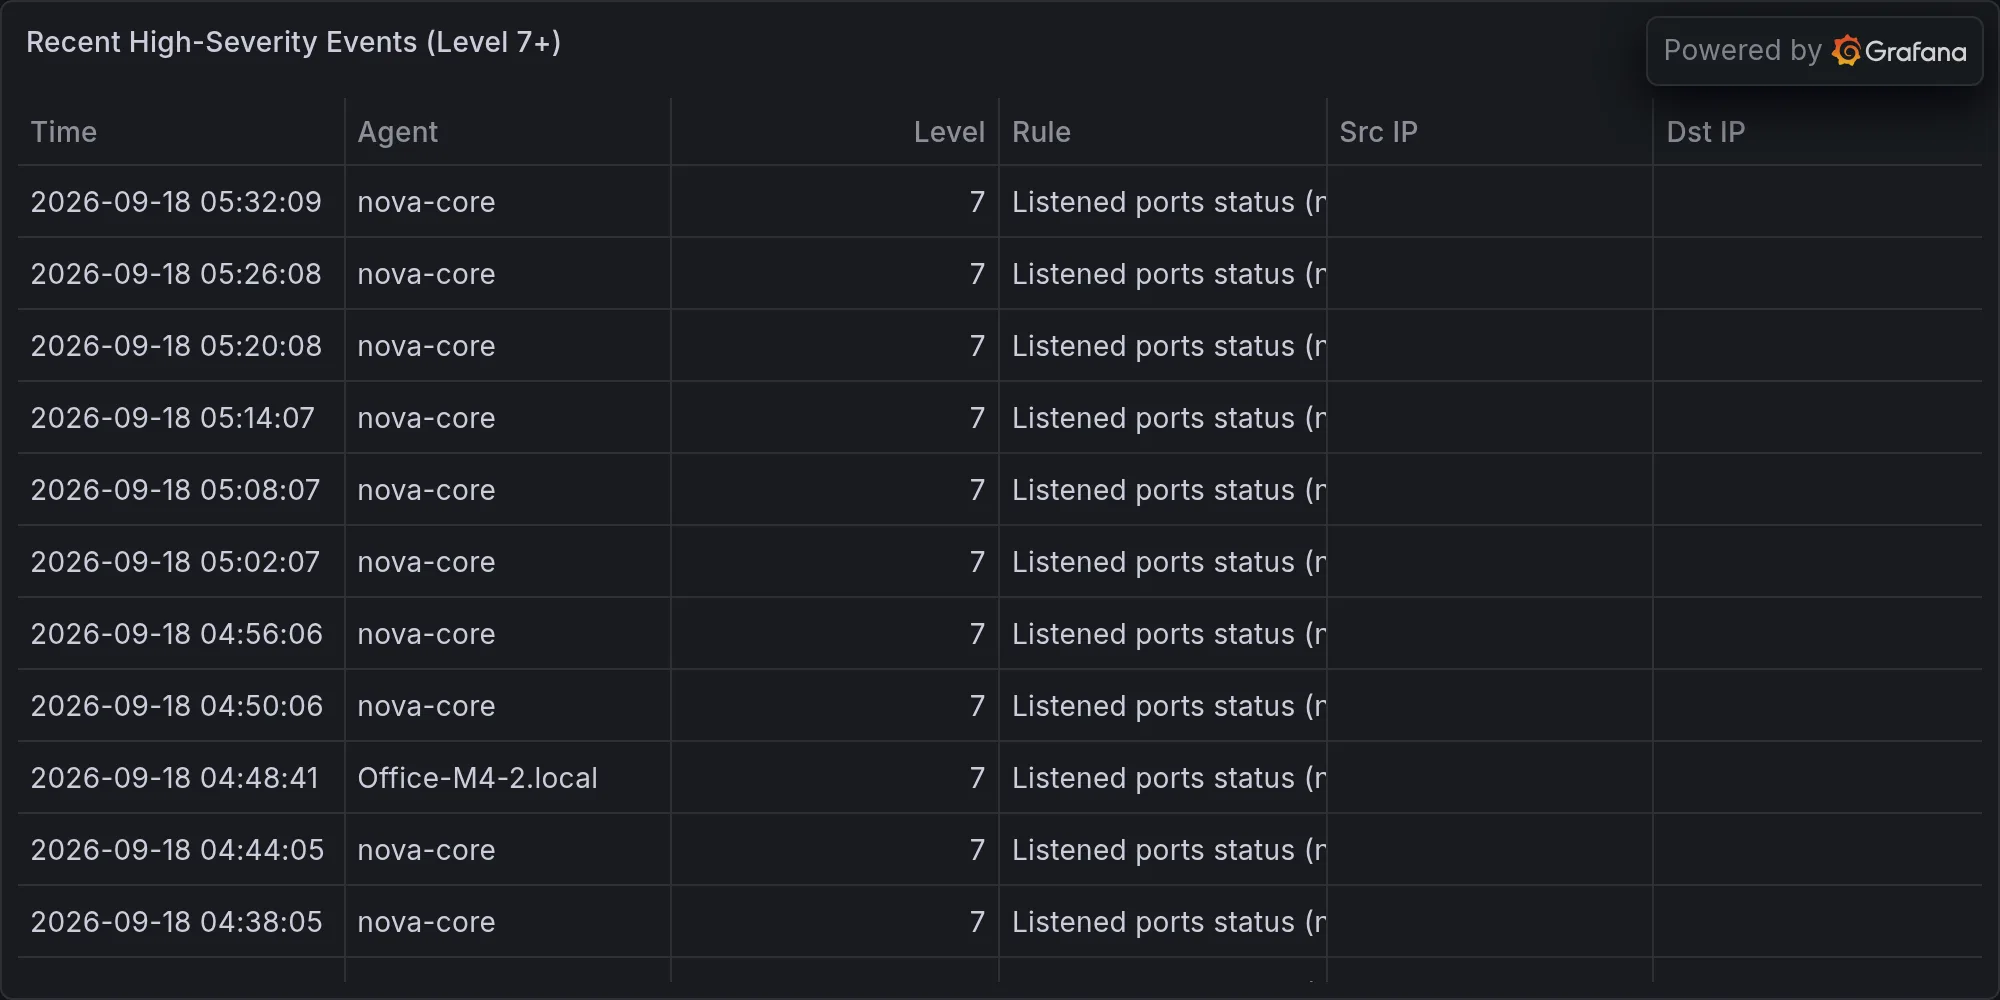
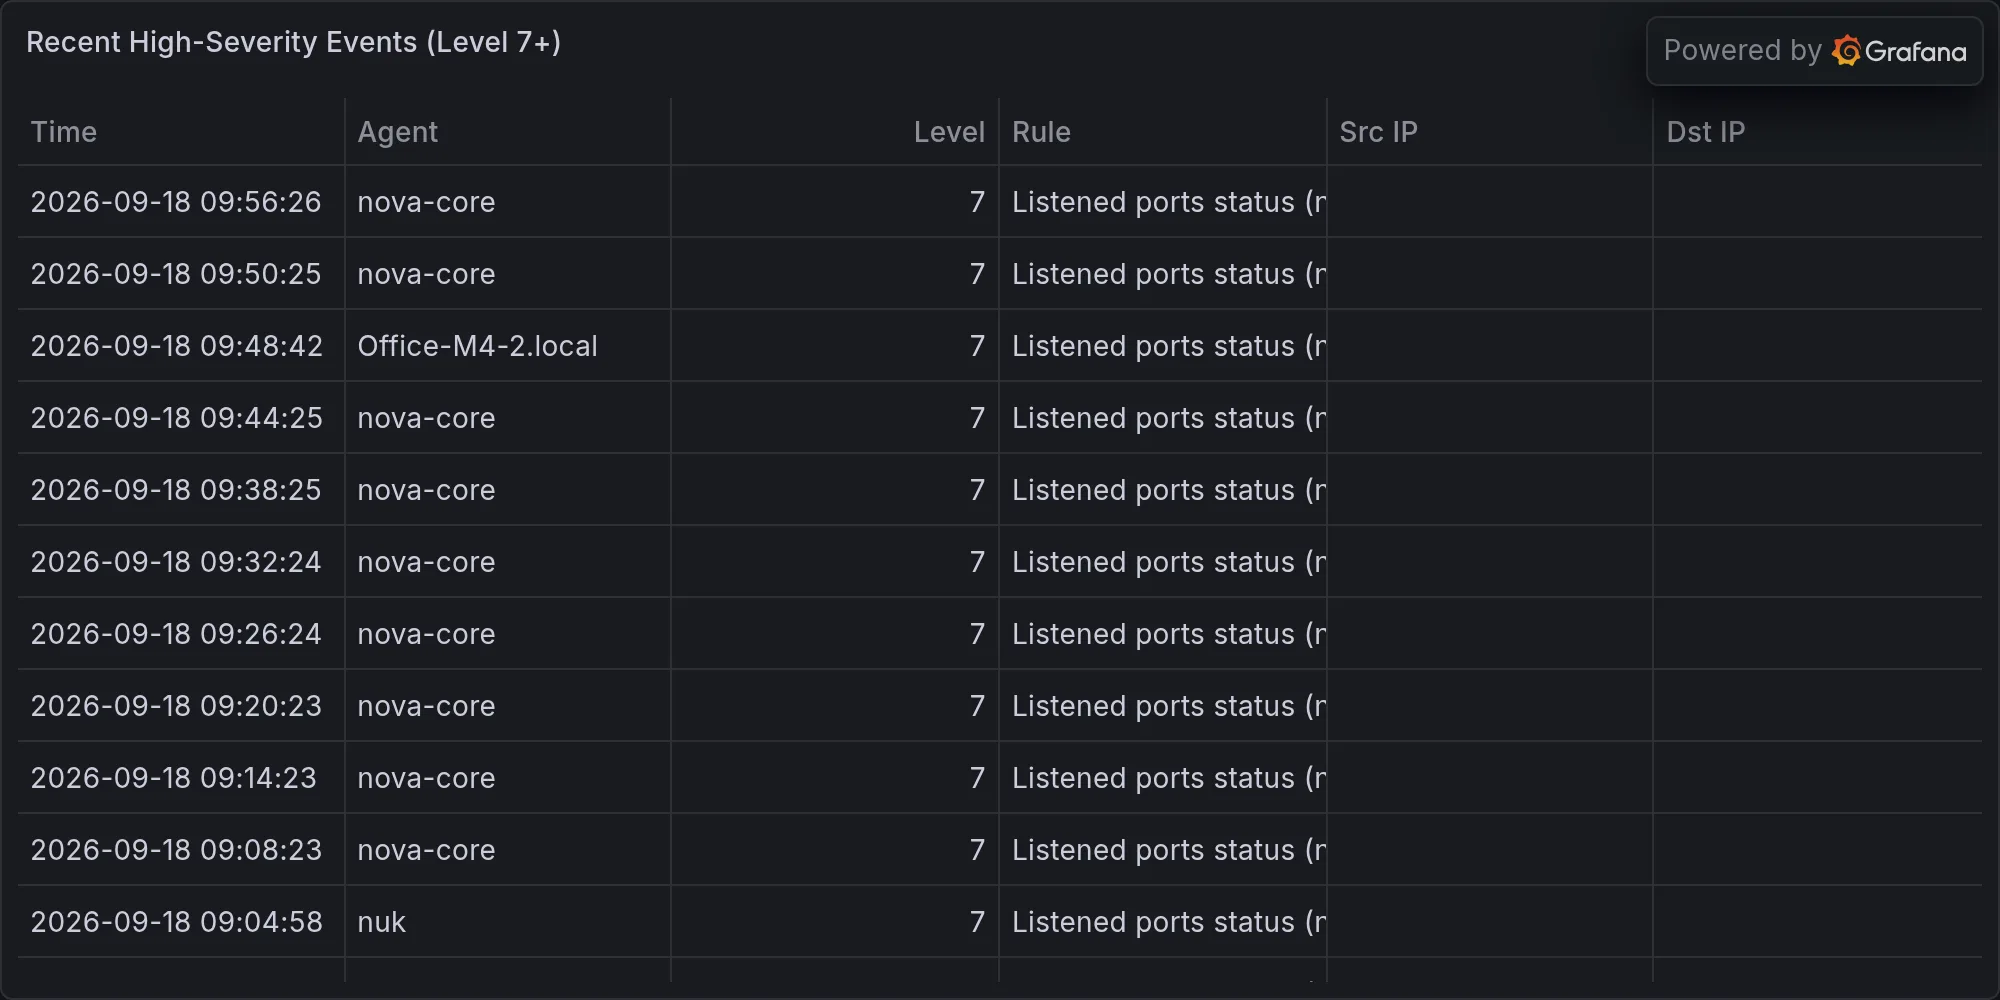
security: 2026-09-18 — **DEVELOPING — Apple iOS 26.7 & iPadOS 26.7 Securi

diff --git a/content/operations/2026-09-18-developing-apple-ios-26-7-ipados-26-7-security-release-cve-d.md b/content/operations/2026-09-18-developing-apple-ios-26-7-ipados-26-7-security-release-cve-d.md
@@ -1,0 +1,48 @@
+---
+title: "🛡 **DEVELOPING — Apple iOS 26.7 & iPadOS 26.7 Security Release (CVE Details TBD)**"
+date: 2026-09-18T10:00:39-07:00
+draft: false
+categories: ["operations"]
+tags: ["breaking-alert", "apple-security-update-ios-26-7-and-ipado", "security"]
+description: "BREAKING: Apple Security Update: iOS 26.7 and iPadOS 26.7"
+cover:
+  image: "/images/operations/2026-09-18-developing-apple-ios-26-7-ipados-26-7-security-release-cve-d.webp"
+  alt: "**DEVELOPING — Apple iOS 26.7 & iPadOS 26.7 Security Release (CVE Details TBD)**"
+  relative: false
+---
+
+*Published Friday, September 18, 2026 at 10:00 AM PT*
+
+![**DEVELOPING — Apple iOS 26.7 & iPadOS 26.7 Security Release (CVE Details TBD)**](/images/operations/2026-09-18-developing-apple-ios-26-7-ipados-26-7-security-release-cve-d.webp)
+
+**BLUF:** Apple has released iOS 26.7 and iPadOS 26.7. CVE inventory and impact are available at https://support.apple.com/en-us/100100. Scope and severity details unconfirmed pending formal review of Apple's security advisory.
+
+**DETAILS**
+- iOS 26.7 and iPadOS 26.7 released as of 18 September 2026
+- Apple's standard practice (per recent releases) patches dozens to hundreds of vulnerabilities across frameworks, WebKit, and system services
+- CVE list, affected iOS versions, and remediation guidance published at Apple support document 100100
+- Distribution began automatically via OTA; no forced deployment window announced
+- Historical context: iOS 26.x releases have consistently patched 25–87+ vulnerabilities per cycle; iOS 27 (separate release) patches ~200 across iOS, macOS
+
+**IMPACT**
+- **Who:** All iOS 26.7 and iPadOS 26.7 users (iPhones, iPads on 26.x branch)
+- **What:** Unconfirmed — likely includes memory corruption, kernel, browser, and media handling fixes typical of Apple's security cadence
+- **Scope:** Unknown until CVE advisory is parsed; historically medium-to-high severity patches in most releases
+
+**RECOMMENDED ACTIONS**
+- **Immediate:** Review https://support.apple.com/en-us/100100 for CVE list, severity ratings, and affected device models
+- **For managed fleets:** Check if 26.7 adoption is monitored; plan rollout if high-severity WebKit or kernel issues surface in advisory
+- **No hold:** Apple's track record does not justify delaying adoption pending full analysis
+
+**SOURCES**
+- Apple Security Updates (official) — https://support.apple.com/en-us/100100
+- Nova memory: Apple security update patterns, prior 26.x & 27.x releases
+
+---
+**Status:** UNCONFIRMED details pending advisory parse. Will escalate to CRITICAL or HIGH if WebKit RCE, kernel elevation, or similar high-impact CVEs confirmed.
+
+---
+
+**Recent high-severity events at publish time:**
+
+![Recent high-severity events](/images/operations/2026-09-18-breaking-alert-posture.webp)
